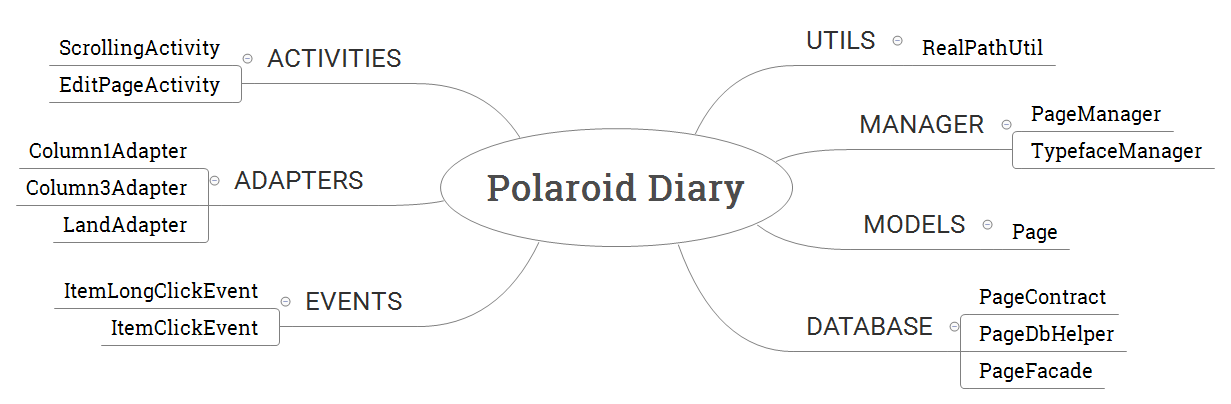
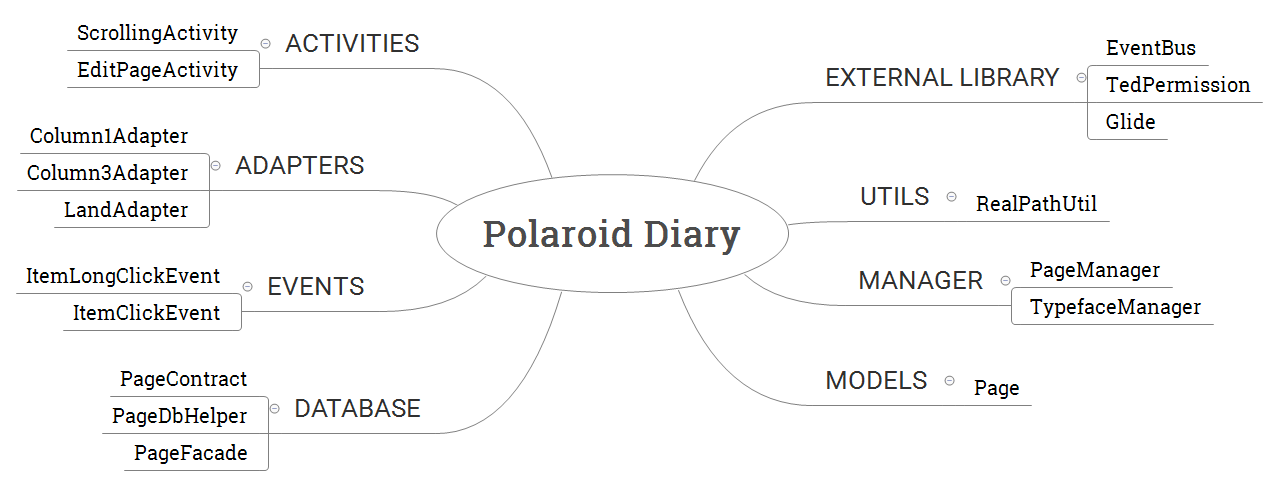
readme파일 수정

diff --git a/README.md b/README.md
@@ -21,7 +21,7 @@
 1. 다이어리 앞장의 사진이 들어갈 위치를 꾹 길게 눌러 기기에 저장된 사진을 가져온다.
     ![screensh](https://github.com/HyunjuLee521/NewDiaryProject/blob/master/ui2.png)
     
-1. 다이어리 뒷장 역시 꾹 길게 눌러 텍스트를 작성한다. 상단 우측의 라디오 버튼으로 쓰기/읽기 모드를 전환할 수 있다.
+1. 다이어리 뒷장 역시 꾹 길게 눌러 텍스트를 작성한다. 상단 우측의 스위치 버튼으로 쓰기/읽기 모드를 전환할 수 있다.
     ![screensh](https://github.com/HyunjuLee521/NewDiaryProject/blob/master/ui3.png)
     
 1. 뒤로가기 또는 상단 바 우측의 저장 버튼을 누르면 메인화면에 새 폴라로이드 다이어리가 추가된다. 삭제 버튼을 누르면 작성이 취소된다.
@@ -76,10 +76,14 @@
 
 1. 안드로이드 이벤트 버스
     * greenrobot / EventBus : https://github.com/greenrobot/EventBus
+    
+2. 글라이드
+    * bump / glide : https://github.com/bumptech/glide
+  
+3. 테드퍼미션
+    * ParkSangGwon / TedPermission : https://github.com/ParkSangGwon/TedPermission
 
     
-
-
 ## 7. License
 Copyright 2017. Hyunju Lee
 
